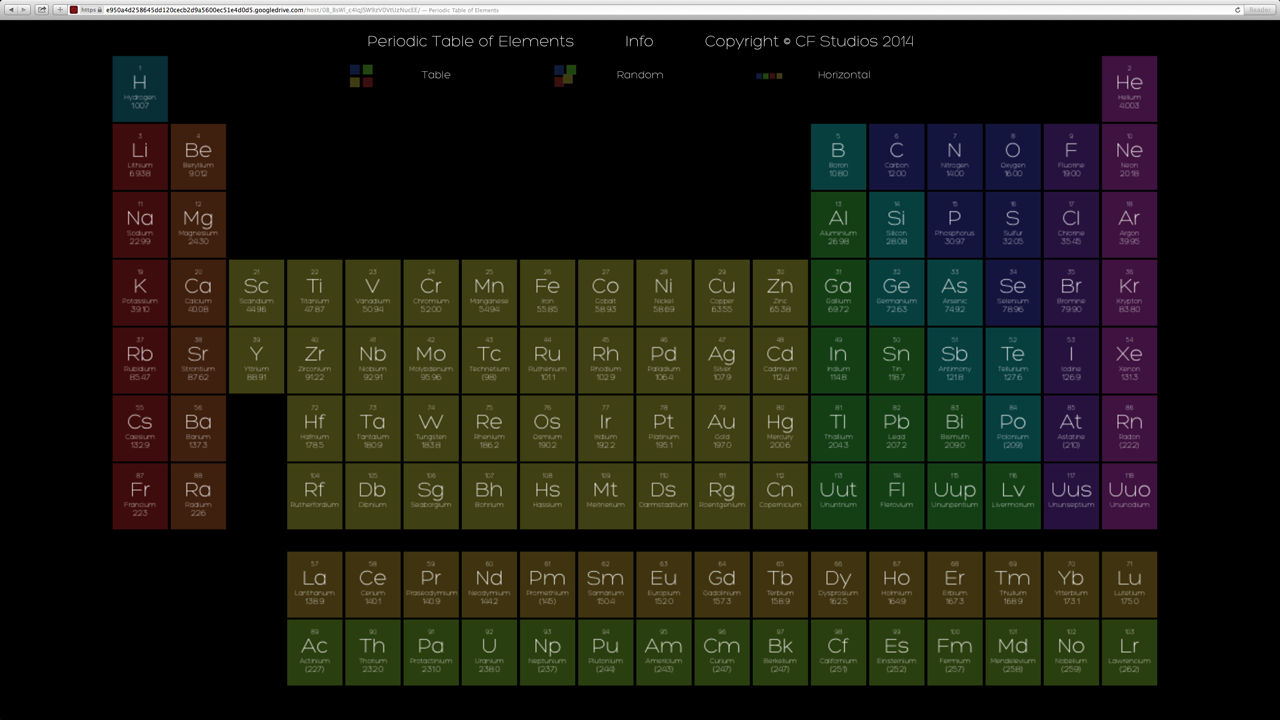
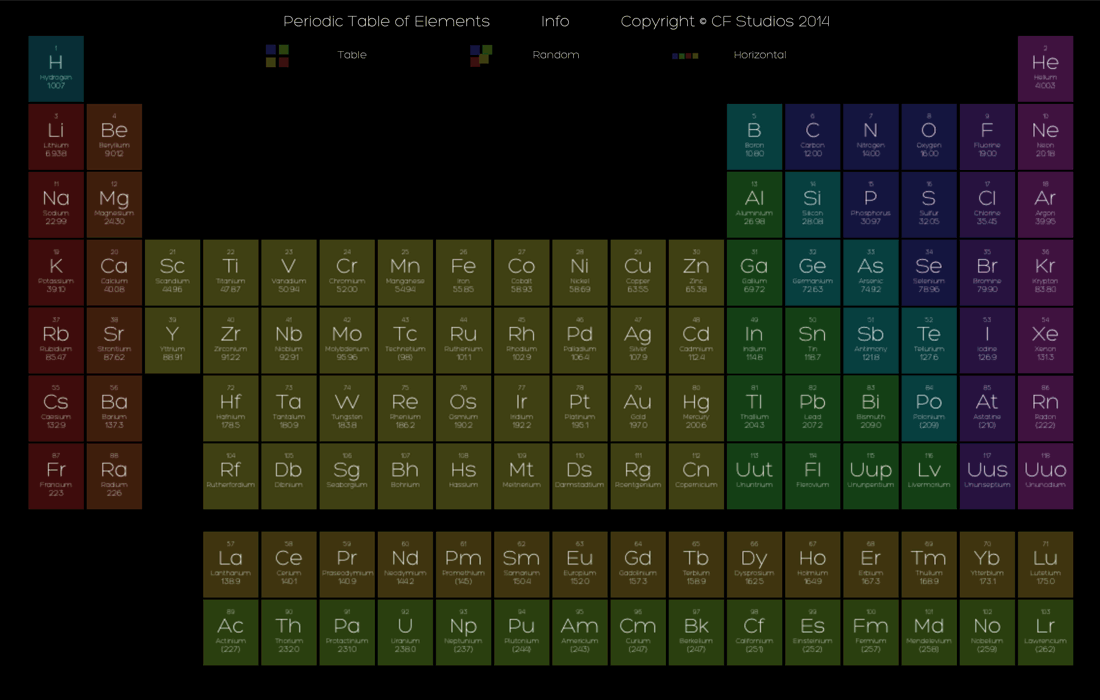
Graphic & Styling Optimisations
Converted Icons to Vector Format
Cropped and Compressed Screenshot
Updates to Styling of Info Page

diff --git a/info.html b/info.html
@@ -11,14 +11,14 @@
                 padding:0;
                 margin:0;
                 background-color:black;
-                font-family:'Hero Light';
+                font-family:'Helvetica Neue Ultra Light','Hero Light',sans-serif;
                 color:white;
                 cursor:default;
             }
             @font-face { font-family: 'Hero Light'; src: url('assets/Hero Light.otf') format('opentype'); }
             div
             {
-                padding:2vmin 10vmin;
+                padding:1vmin 8vmin;
             }
             p
             {
@@ -40,11 +40,19 @@
             }
             h3
             {
-                font-size:1em;
+                font-size:1.3em;
             }
             h4
             {
-                font-size:1em;
+                font-size:1.1em;
+            }
+            #release p, #release h4
+            {
+                margin:.8em 0;
+            }
+            p
+            {
+                font-size:1.1em;
             }
             img
             {
@@ -88,14 +96,6 @@
                 padding:3vh 10vmin;
                 background-color:rgba(124, 11, 175, 0.1);
             }
-            #references, #des
-            {
-                padding-top:0; 
-                padding-bottom:0;
-            }
-            #references p
-            {
-            }
         </style>
         <!--[if IE]>
         <script src="http://html5shiv.googlecode.com/svn/trunk/html5.js"></script>
@@ -115,6 +115,10 @@
             <p>Update Info Page</p>
             <h4>V0.55 - 29-12-14</h4>
             <p>Preparation for Public Release</p>
+            <h4>V1 - 01-01-15</h4>
+            <p>Public Release</p>
+            <h4>V1.01 - 07-01-15</h4>
+            <p>Update Mobile Code, Optimisations</p>
         </div>
         <div id="des">
             <h2>Description</h2>
@@ -126,7 +130,8 @@
             <h3>Philosophy</h3>
             <p>We envisioned a periodic table that was functional and rich in information, while fluid and understated in design.
 This was in direct response to the apparent lack of periodic tables that exhibit both these design philosophies; as some accessible periodic tables were abundant in information, yet visually lacking, or vice versa. As a result of this, the Periodic project came to life.</p>
-            <img alt="" id="desicon" src="img/Icon.png" class="floatleft" />
+        </div>
+        <div id="design">
             <h2>Design</h2>
             <h3>Influencing Factors</h3>
             <p>In creating the periodic table, principles of a clean, minimalist design on a black background were coupled an elegant user interface and concise element information. It was designed with chemistry students at VCE level in mind, and hence a responsive, breezy experience was also fundamentally important.</p>

diff --git a/assets/style.css b/assets/style.css
@@ -317,15 +317,15 @@ footer>#formcontainer>div:hover
 }
 footer>#formcontainer>#tableform
 {
-	background-image: url('../img/Table.png');
[1 lines of base64/hex data omitted]
 }
 footer>#formcontainer>#movingform
 {
-	background-image: url('../img/Moving.png');
[1 lines of base64/hex data omitted]
 }
 footer>#formcontainer>#horizontalform
 {
-	background-image: url('../img/Horizontal.png');
[1 lines of base64/hex data omitted]
 }
 
 /*Top Options End*/
